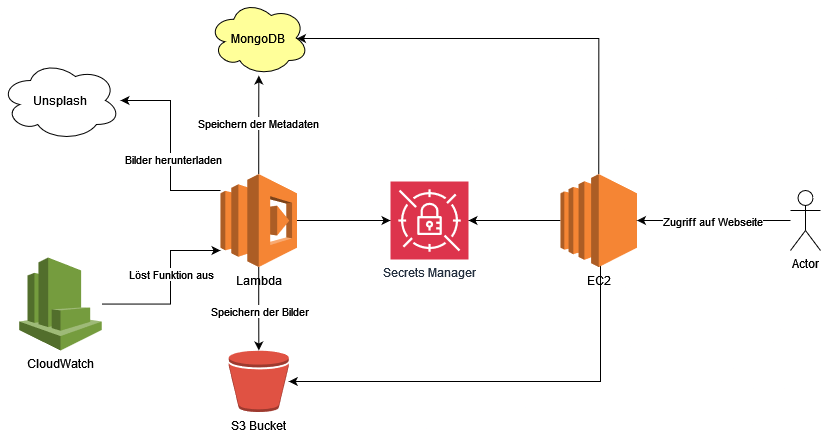
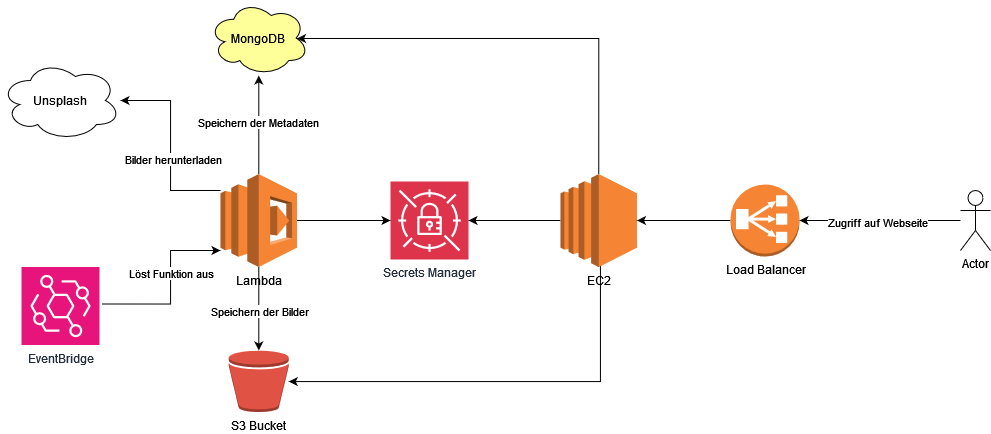
Updating everything

diff --git a/README.md b/README.md
@@ -30,7 +30,7 @@ Schliesslich sieht der Benutzer alle zwei Minuten ein neues Bild mit deren Metad
 3. lambda layer erstellen (beinhaltet axios, mongodb => dependencies für lambda)
 4. lambda funktion erstellen (node 20.x)
 5. ec2 webserver erstellen und dynamisch inhalt von s3 und mongodb laden
-6. cloud watch trigger alle 2 minuten
+6. EventBridge trigger alle 2 minuten
 7. load balancer
 8. hosted zone (subdomain)  
 
@@ -44,17 +44,22 @@ Damit die Secrets auch von EC2 oder Lambda ausgelesen werden können, müssen en
 
 ```JSON
 {
-    "Version": "2012-10-17",
-    "Statement": [
-        {
-            "Effect": "Allow",
-            "Principal": {
-                "AWS": "arn:aws:iam::561824754533:role/LabRole"
-            },
-            "Action": "secretsmanager:GetSecretValue",
-            "Resource": "*"
-        }
-    ]
+  "Version" : "2012-10-17",
+  "Statement" : [ {
+    "Effect" : "Allow",
+    "Principal" : {
+      "AWS" : "arn:aws:iam::561824754533:role/LabRole"
+    },
+    "Action" : "secretsmanager:GetSecretValue",
+    "Resource" : "*"
+  }, {
+    "Effect" : "Allow",
+    "Principal" : {
+      "AWS" : "arn:aws:iam::561824754533:role/EMR_EC2_DefaultRole"
+    },
+    "Action" : "secretsmanager:GetSecretValue",
+    "Resource" : "*"
+  } ]
 }
 ```
 
@@ -74,14 +79,36 @@ S3_BUCKET_NAME
 UNSPLASH_ACCESS_KEY
 ```
 
+<div style="text-align: center;">
+    <figure>
+        <img src="assets/SecretMan_config_bucket.png" alt="Configuration for the S3 Bucket in AWS Secrets Manager" width="500">
+        <figcaption>Konfiguration des Secrets für den S3 Bucket</figcaption>
+    </figure>
+</div>
+
+
 ## Mongodb 
 
 Bei der MongoDB gibt es nicht viel zu beachten. Nebst einer leeren Instanz musste nur noch der `Network access` konfiguriert werden. Bei dem wurde eingestellt, dass alle IP-Adressen zugriff auf die DB besitzten. Natürlich werden immernoch Anmeldeinformationen verlangt, doch wird die Firewall somit etwas entschärft. Der Grund dafür ist, dass die Services welche die MongoDB benötigen, einer öffentlichen IP zugewiesen sind. Diese kann sich immer wieder ändern (wenn nicht expliziert definiert) was dazu führen würde, dass bei jeder IP änderung der Netowrk access auf die neue IP angepasst werden müsste. Dies wird mit dem setzen von der IP-range `0.0.0.0/0` umgangen, birgt aber ein höheres Sicherheitsrisiko. Da es sich hierbei um keine produktive Umgebung handelt, ist dies also kein Problem.
+
+<div style="text-align: center;">
+    <figure>
+        <img src="assets/MongoDB_summary.png" alt="Created MongoDB" width="500">
+        <figcaption>MongoDB für die praktische Prüfung</figcaption>
+    </figure>
+</div>
 
 ## S3 Bucket
 
 Der Bucket muss so konfiguriert werden, dass er erlaubt, Bilder im Internet öffentlich zu machen. Entweder kann man Global festlegen, dass jedes Bild publiziert wird oder man entscheidet sich jeweils genau, welches öffentlich gemacht werden soll. Ich habe mich für letzteres entschieden, um mehr Kontrolle über die Inhalte zu haben. Ich möchte z.B. nicht ein persönliches Bild hochladen und dieses automatisch online haben...
 Damit dies bewerkstelligt werden konnte, mussten die ACLs aktiviert werden und `Block all public access` abgewählt werden. Diese Einstellungen erlauben, dass Berechtigungen einzeln auf den jeweiligen Bildern gesetzt werden können. In unserem Fall ein Bild also öffentlich zu machen. Desweiteren wird so erlaubt, dass wir über die Lambdafunktion die Berechtigungen auf ein Bild überhaupt setzten können. 
+
+<div style="text-align: center;">
+    <figure>
+        <img src="assets/S3_config.png" alt="Configuration of the S3 Bucket" width="500">
+        <figcaption>Einstellungen des S3 Buckets</figcaption>
+    </figure>
+</div>
 
 ## Lambda  
 
@@ -108,6 +135,13 @@ Die Einbindung erfolgt wie folgt:
 3. Ein neues Layer erstellen (create layer)
 4. Dieses Konfigurieren indem die Laufzeit angegeben wird und das Zip hochgeladen wird.
 
+<div style="text-align: center;">
+    <figure>
+        <img src="assets/LambdaLayer_create.png" alt="Creation of the Lambda Layer" width="500">
+        <figcaption>Konfiguration des Lambda Layers</figcaption>
+    </figure>
+</div>
+
 ### Lambda Function
 
 Erstellen der Lambda Funktion:
@@ -118,17 +152,52 @@ Erstellen der Lambda Funktion:
 4. `Nodejs 20.x` als Umgebung auswählen
 5. `Change default execution role` die LabRole auswählen. 
 
+<div style="text-align: center;">
+    <figure>
+        <img src="assets/LambdaFunction_create.png" alt="Creation of Lambdafunction" width="500">
+        <figcaption>Einstellungen der Lambdafunktion</figcaption>
+    </figure>
+</div>
+
 Das auswählen der execution role umfasst zwei Gründe; erstens kann die Funktion nur erstellt werden, wenn eine Rolle angegeben wird, welche Berechtigung hat, auf Cloud Watch (logging service) zu schreiben. Zweitens greifen wir in der Funktion auf den API-Dienst von MongoDB zu. Dafür werden Credentials benötigt welche im Secrets Manager definiert sind. Damit diese ausgelesen werden können, haben wir bei den jeweiligen Secrets im SecretsManager angegeben welche Rollen auf die Ressourcen Zugriff haben. Da dies die LabRole ist, wird diese selektiert. 
 
 Da die benötigten Dependencies nun vorhanden sind, wird die Lambda-Funktion erstellt, welche das Bild von Unsplash in den S3 Bucket herunterlädt und die Metadaten in MongoDB speichert.
 
 Unter `Layers` wird der vorherig erstellte Layer hinzugefügt. Hierbei wird das Layer anhand des ARN (eindeutige ID) ausgewählt, dieser findet sich bei der Detailansicht des Lambda Layers. 
 
+<div style="text-align: center;">
+    <figure>
+        <img src="assets/LambdaFunction_addLayer.png" alt="Add Layer to Function" width="500">
+        <figcaption>Konfiguration, um Layer an der Funktion anzubinden</figcaption>
+    </figure>
+</div>
+
 Der [Code]() wird anschliessend in das `index.mjs` geschrieben und muss mit dem Button `Deploy` gespeichert werden. 
 
 Zu beachte gilt noch, dass die Timeout Dauer erhöht wird. Durch das Fetchen von Unsplash und den sonstigen Operaionen kann es sein, dass die Lambdafunktion länger als drei Sekunden daurt und in einem Timeout endet. Dies kann über Configruation => General configuration angepasst werden. Ich verwende 30s.
 
 Bevor fortgefahren wird mit der EC2 Instanz welche den Webserver zur Verfügung stellt, wird ein Test durchgeführt welcher mit dem gleinchamigen Button ausgeführt werden kann. Der Test Event reicht mit der Standardkonfiguration aus und benötigt nur einen Namen. Ein erfolgreicher Test gibt einen HTTP Code 200. Zudem haben wir ein öffentlich einsehbares Bild im Bucket und auf MongoDB den MetadatenEintrag gemäss Anforderungen.
+
+<div style="text-align: center;">
+    <figure>
+        <img src="assets/LambdaFunction_testSuccess.png" alt="Test success" width="500">
+        <figcaption>Antwort des Tests i.O.</figcaption>
+    </figure>
+</div>
+
+<div style="text-align: center;">
+    <figure>
+        <img src="assets/MongoDB_testMetadata.png.png" alt="Stored metadata in MongoDB" width="500">
+        <figcaption>Erster Eintrag von Metadaten in der MongoDB</figcaption>
+    </figure>
+</div>
+
+<div style="text-align: center;">
+    <figure>
+        <img src="assets/S3_publiTestImage.png" alt="Public available Image" width="500">
+        <figcaption>Öffentliches Bild im S3 Bucket</figcaption>
+    </figure>
+</div>
 
 ## EC2 Webserver
 
@@ -154,4 +223,132 @@ Bei der Konfiguration der EC2 Instanz hatte ich am meisten Probleme. Grund dafü
 3. Script ausführen welches Secrets aus SecretsManger liest und im gleichen Script den API Call mit den Variablen macht, Script als Cronjob
 4. Script ausführen welches Secrets aus SecretsManger liest und im gleichen Script den API Call mit den Variablen macht
 
-Hierbei hat einzig und allein die Letzte und meines Erachtens schlechteste Methode funktioniert. So wie es jetzt implementiert ist, wird das `Credentials.sh` skript beim erstellen der EC2 Instanz aufgerufen welches die Secrets aus dem Secrets Manager holt und diese als ENV auf dem System speichert. Im gleichen Atemzug wird der API Call initialsiert welcher jede Minute (nicht alle zwei um immer auf dem Stand des S3 Buckets/MongoDB zu sein) die Metadaten aus der MongoDB holt und diese in einer Datei ablegt. Hier sind schon die ersten Probleme; werden die Secrets geändert, werden diese nicht automatisch übernommen. Es geschieht kein neuer Abruf der Variablen. Des weiteren 
+Hierbei hat einzig und allein die Letzte und meines Erachtens schlechteste Methode funktioniert. So wie es jetzt implementiert ist, wird das `Credentials.sh` skript beim erstellen der EC2 Instanz aufgerufen welches die Secrets aus dem Secrets Manager holt und diese als ENV auf dem System speichert. Im gleichen Atemzug wird der API Call initialsiert welcher jede Minute (nicht alle zwei um immer auf dem Stand des S3 Buckets/MongoDB zu sein) die Metadaten aus der MongoDB holt und diese in einer Datei ablegt. Hier sind schon das erste Problem; werden die Secrets geändert, werden diese nicht automatisch übernommen. Es geschieht kein neuer Abruf der Variablen. Bis hierhin geht es nur um das holen und speichern der Metadaten. Angezeigt werden diese durch das PHP Skript. Aus dem S3 Bucket wird das Bild geholt und aus dem Metadatenfile werden die enstprechenden Bildinformationen geholt. Der Connectionstring für den S3 Bucket muss ich hierbei hardcodieren da ich keine Möglichkeit gefunden habe auf den Secret Manager oder den ENV Variablen zuzugreifen. Damit die aktualisierten Daten angezeigt werden, wird die Seite jede Minute neu geladen. 
+
+Somit funktioniert dieses Cloud-Init Skript doch ist es bestimmt nicht produktiv einsetzbar. Vor allem die Credentials sind hier die grösste Hürde. Diese müssen stets aktuell und sicher aufbewart werden. Nichtsdestotrotz war es möglich die Credentials aus dem Secrets Manager auszulesen und zu verwenden. 
+
+## Automatisieren mit Event Bridge
+
+Da der Webserver nun funktioniert. Möchten wir, dass alle zwei Minuten ein Bild von Unsplash heruntergeladen und verarbeitet wird. Dies kann sehr einfach mit EventBridge umgesetzt werden.
+
+1. Amazon EventBridge
+2. Schedules
+3. Create schedule
+4. Unter schedule pattern wird mit der Cron expression `*/2 * * * * ? *` angegeben, dass es alle zwei Minuten laufen soll.
+5. Target detail: AWS Lambda
+6. Funktion auswählen
+7. Action after schedule completion: NONE (Der Vorgang soll immer weiter laufen...)
+8. Permissions: LabRole 
+
+<div style="text-align: center;">
+    <figure>
+        <img src="assets/EB_Scheduler.png" alt="EventBridge Cron Job" width="500">
+        <figcaption>Die nächsten Ausführzeiten des Events</figcaption>
+    </figure>
+</div>
+
+## Load Balancer und AutoScaling
+
+Mit der anhin umgesetzten Applikation werden alle zwei Minuten Bilder aus Unsplash heruntergeladen und mit den jeweiligen Metadaten auf der Homepage angezeigt. In diesem Abschnitt wird ein Load Balancer und ein AutoScaling Service erstellt. Diese Kombination erlaubt es, stets eine gewünschte Anzahl von EC2 Instanzen am laufen zu haben und die Last auf diese gleichmässig zu verteilene. Darüber hinaus, werden die Instanzen in jeweils verschiedenen Availability Zones laufen, was die Redundanz erhöht. 
+
+
+Folgender Ablauf wird nicht in grossem Detail dokumentiert, da dies auf der Aufgabe 06: Scaling basiert und dort detaillierter niedergeschrieben ist. Trotzdem wie folgt der Ablauf:
+
+1. Target Group erstellen
+    1. EC2
+    2. Target Groups
+    3. Create target group
+    4. Instances
+
+<div style="text-align: center;">
+    <figure>
+        <img src="assets/TG_ForLoadBalancer.png" alt="Configuration for Target Group" width="500">
+        <figcaption>Einstellungen der Target Group</figcaption>
+    </figure>
+</div>
+
+2. Load Balancer konfigurieren
+    1. EC2
+    2. Load Balancer
+    3. Application
+    4. Availability Zones
+    5. Security Groups
+    6. Target Groups
+
+<div style="text-align: center;">
+    <figure>
+        <img src="assets/LB_AvailabilityZones.png" alt="Configuration for Availability Zones" width="500">
+        <figcaption>Die selektierten Availability Zones für mehr Redundanz</figcaption>
+    </figure>
+</div>
+
+<div style="text-align: center;">
+    <figure>
+        <img src="assets/LB_Summary.png" alt="Summary of Load Balancer" width="500">
+        <figcaption>Zusammenfassung des Load Balancers</figcaption>
+    </figure>
+</div>
+
+<div style="text-align: center;">
+    <figure>
+        <img src="assets/LB_WebserverAvailable.png" alt="Webserver through Load Balancer" width="500">
+        <figcaption>Erreichbar: Der Webserver via Load Balancer</figcaption>
+    </figure>
+</div>
+
+Bis zu diesem Zeitpunkt haben wir einen LoadBalancer mit einer öffentlich erreichbaren URI, doch zeigt diese auf immer die gleiche Instanz. Dies wollen wir nun ändern. 
+
+3. Launch Template erstellen
+    1. EC2
+    2. Launch Templates
+    3. Analog konfigurieren wie die EC2 Instanz 
+4. Auto scaling service definieren
+    1. EC2
+    2. Auto Scaling Groups
+    3. Launch template auswählen
+    4. Availability Zones auswählen (gleiche wie Load Balancer)
+    5. Attach to an existing load balancer
+    6. Target group auswählen
+    7. Turn on Elastic Load Balancing health checks
+    8. Min 2 Instanzen
+
+Sind die Instanzen "Healthy" kann über die URI des Load Balancers immernoch auf die Seite zugegriffen werden. Jetzt haben wir allerdings eine gewisse Redundanz, denn drei Instanzen (2 von Auto Scaler, 1 manuell erstellte) laufen zurzeit. Mit zwei Instanzen (die vom auto scaler) kann man immer rechnen, ausser AWS hat einen weiten Systemausfall was aber sehr unwahrscheinlich ist.
+
+<div style="text-align: center;">
+    <figure>
+        <img src="assets/TG_RunningInstances.png" alt="Healthy Instances" width="500">
+        <figcaption>Drei gesunde Instanzen</figcaption>
+    </figure>
+</div>
+
+
+## Hosted Zone 
+
+Der DNS Name um den Webserver nun zu erreichen ist folgender: `praktischePruefungLB-121437075.us-east-1.elb.amazonaws.com` dies ist eine unschöne URI und soll nun durch die Subdomain `sebastian.m346.ch` "ersetzt" werden. 
+
+Dafür muss zuerst eine Hosted Zone erstellt werden.
+
+1. Route 53
+2. Create hosted zone
+3. domain angeben `m346.ch`
+4. create record
+5. subdomain angeben `sebastian.m346.ch`
+6. CNAME da der load balancer keine öffentliche IP hat. Würde eine EC2 Instanz gewählt werden, welche eine öffentliche IP besitzt, wäre es möglich einen A-Record zu nehmen und auf die IP zu zeigen. 
+7. Dem Adminsistrator der Domain muss der Nameserver (NS) welcher auf der Route 53 Oberfläche ersichtlich ist, mitgeteilt werden. Daraufhin delegiert der Adminstrator alle Verbindung auf die Subdomain auf unsere Hosted Zone,sodass wir diese weiter verwenden können. 
+
+<div style="text-align: center;">
+    <figure>
+        <img src="assets/HZ_create_zone.png" alt="Configuration of Hosted Zone" width="500">
+        <figcaption>Konfiguration der Hosted Zone</figcaption>
+    </figure>
+</div>
+
+<div style="text-align: center;">
+    <figure>
+        <img src="assets/HZ_CreateRecord.png" alt="Creating the Subdomain in the Hosted Zone" width="500">
+        <figcaption>Hinzufügen der Subdomain in der Hosted Zone</figcaption>
+    </figure>
+</div>
+
+# Reflexion und Abschluss
+
